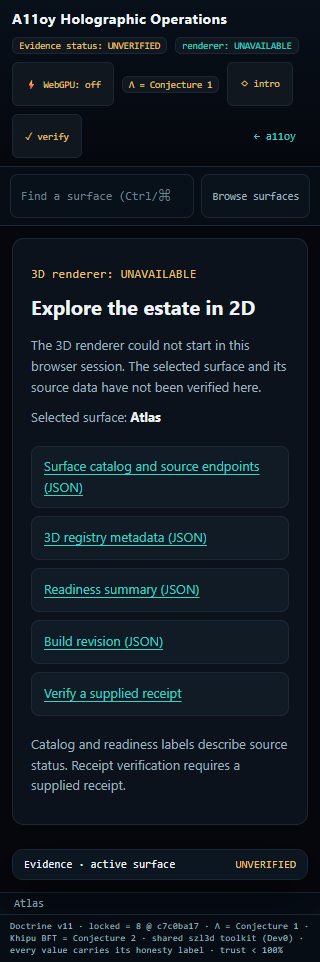
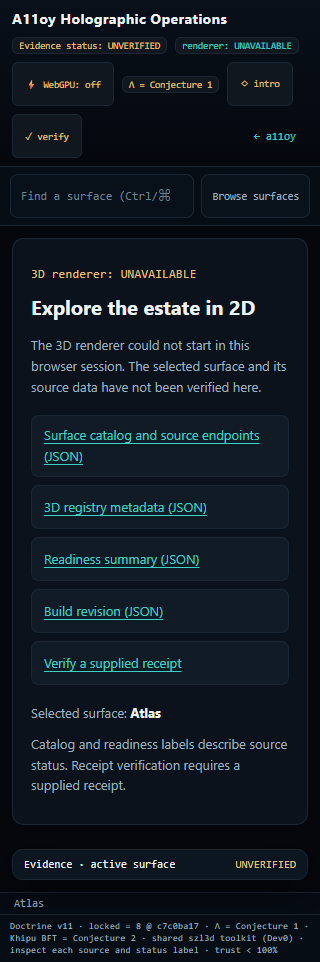
fix(frontend): clarify holographic fallback status and focus

diff --git a/static/3d/holographic.html b/static/3d/holographic.html
@@ -260,7 +260,6 @@ footer{padding:6px 14px;border-top:1px solid var(--line);flex:0 0 auto;
     <p class="fallback-status" role="status">3D renderer: UNAVAILABLE</p>
     <h2 id="fallback-title">Explore the estate in 2D</h2>
     <p>The 3D renderer could not start in this browser session. The selected surface and its source data have not been verified here.</p>
-    <p>Selected surface: <strong id="fallback-surface">Loading surface</strong></p>
     <nav class="fallback-links" aria-label="2D source and receipt links">
      <a href="/api/a11oy/v1/frontier-index/catalog">Surface catalog and source endpoints (JSON)</a>
      <a href="/api/a11oy/v1/holographic/info">3D registry metadata (JSON)</a>
@@ -268,6 +267,7 @@ footer{padding:6px 14px;border-top:1px solid var(--line);flex:0 0 auto;
      <a href="/api/build-info">Build revision (JSON)</a>
      <a href="/verify">Verify a supplied receipt</a>
     </nav>
+    <p>Selected surface: <strong id="fallback-surface">Loading surface</strong></p>
     <p>Catalog and readiness labels describe source status. Receipt verification requires a supplied receipt.</p>
    </div>
   </section>
@@ -275,9 +275,9 @@ footer{padding:6px 14px;border-top:1px solid var(--line);flex:0 0 auto;
   <div id="intro" role="dialog" aria-modal="true" tabindex="-1" aria-label="a11oy holographic estate — landing overview" hidden>
   <div class="intro-eyebrow">SZL Holdings · Doctrine v11 · Λ = Conjecture 1</div>
   <h2>The governed agentic substrate, rendered as a holographic estate</h2>
-  <p class="intro-sub">Every value each surface shows traces to a real same-origin a11oy endpoint and
-   carries its own honesty label (MEASURED / MODELED / SAMPLE / STRUCTURAL-ONLY). Nothing here is
-   invented. Start with the Brain, walk the frontier estate, or verify a signed receipt yourself.</p>
+  <p class="intro-sub">Surface entries carry their own source and status labels; inspect the
+    <a href="/api/a11oy/v1/frontier-index/catalog">frontier catalog</a> and linked sources for each claim.
+    Start with the Brain, walk the frontier estate, or check a supplied receipt in the public verifier.</p>
   <div class="cards">
    <div class="card" id="card-brain">
     <span class="lbl" data-state="degraded" id="brain-lbl">NO-LIVE-DATA</span>
@@ -288,9 +288,9 @@ footer{padding:6px 14px;border-top:1px solid var(--line);flex:0 0 auto;
     <button class="go" data-go="brain">Open the Brain →</button>
    </div>
    <div class="card" id="card-estate">
-    <span class="lbl" data-state="degraded" id="estate-lbl">NO-LIVE-DATA</span>
+    <span class="lbl" data-state="degraded" id="estate-lbl">UNVERIFIED</span>
     <h3>Frontier estate</h3>
-    <div class="stat" id="estate-stat">—<small>3D surfaces, each wired to a live backend</small></div>
+    <div class="stat" id="estate-stat">—<small>Surface registry and backend health UNVERIFIED</small></div>
     <p>Attention, reasoning, governance, proof, energy, defense and more — grouped behind the
      category dropdowns above. locked-proven formulas = 8 (never inflated).</p>
     <button class="go" data-go="frontierindex">Explore the estate →</button>
@@ -326,7 +326,7 @@ footer{padding:6px 14px;border-top:1px solid var(--line);flex:0 0 auto;
 </aside>
 <div id="surface-caption" title=""></div>
 <footer>Doctrine v11 · locked = 8 @ c7c0ba17 · Λ = Conjecture 1 · Khipu BFT = Conjecture 2 ·
- shared szl3d toolkit (Dev0) · every value carries its honesty label · trust &lt; 100%</footer>
+ shared szl3d toolkit (Dev0) · inspect each source and status label · trust &lt; 100%</footer>
 
 <script type="module">
 import szl3d from "/static/3d/szl3d/szl3d_boot.js";
@@ -511,12 +511,15 @@ async function ensureStage() {
     } catch (e) {
       try { if (stage && stage.dispose) stage.dispose(); } catch (_) {}
       stage = null;
+      try { stageEl.querySelectorAll("canvas").forEach((canvas) => canvas.remove()); } catch (_) {}
       rendererUnavailable = true;
       document.body.dataset.rendererUnavailable = "true";
       fallbackEl.style.display = "flex";
       document.getElementById("backend").textContent = "renderer: UNAVAILABLE";
       // A first-visit intro can cover the fallback; close it when the renderer fails.
-      if (window.__SZL3D_SHELL__?.closeIntro) window.__SZL3D_SHELL__.closeIntro();
+      if (!document.getElementById("intro").hidden && window.__SZL3D_SHELL__?.closeIntro) {
+        window.__SZL3D_SHELL__.closeIntro();
+      }
       fallbackEl.focus({ preventScroll: true });
       console.error("[holographic] stage boot failed:", e);
       throw e;
@@ -541,6 +544,7 @@ function _syncGpuToggle() {
 // compute path on capable browsers without editing the URL.
 async function rebootStage() {
   if (stageBootPromise) { try { await stageBootPromise; } catch (_) {} }
+  const fallbackHadFocus = document.activeElement === fallbackEl || fallbackEl.contains(document.activeElement);
   const active = selectedSurfaceId || (SURFACES[0] && SURFACES[0].id);
   try { if (current && current.instance && current.instance.unmount) current.instance.unmount(); } catch (_) {}
   current = null;
@@ -553,6 +557,7 @@ async function rebootStage() {
   rendererUnavailable = false;
   delete document.body.dataset.rendererUnavailable;
   fallbackEl.style.display = "none";
+  if (fallbackHadFocus) document.getElementById("gpu-toggle").focus({ preventScroll: true });
   await selectSurface(active, "none");
 }
 
@@ -861,12 +866,18 @@ function _makeTab(s, feat) {
   }
   b.addEventListener("click", (ev) => {
     ev.preventDefault();
+    const returnFocus = document.activeElement === b;
+    const fromSearch = searchPanel && searchPanel.contains(b);
     selectSurface(s.id, "push");
     _clearSearch();
     _setBrowser(false);
     openCategory(catOf(s), false);
     // On the mobile horizontal strips, keep the tapped tab in view.
     try { b.scrollIntoView({ behavior: window.matchMedia && window.matchMedia("(prefers-reduced-motion: reduce)").matches ? "auto" : "smooth", inline: "center", block: "nearest" }); } catch (_) {}
+    if (returnFocus) {
+      if (rendererUnavailable) fallbackEl.focus({ preventScroll: true });
+      else (fromSearch ? searchInput : navMode)?.focus();
+    }
   });
   b.addEventListener("keydown", (ev) => {
     if (!["ArrowLeft", "ArrowRight", "ArrowUp", "ArrowDown", "Home", "End"].includes(ev.key)) return;
@@ -1009,10 +1020,19 @@ function _highlight(id) {
   if (gpuBtn) {
     gpuBtn.addEventListener("click", async () => {
       wantWebGPU = !wantWebGPU;
+      const restoreToggleFocus = document.activeElement === gpuBtn ||
+        document.activeElement === fallbackEl || fallbackEl.contains(document.activeElement);
       gpuBtn.disabled = true;
       const prev = gpuBtn.textContent; gpuBtn.textContent = "\u26a1 switching\u2026";
       try { await rebootStage(); } catch (_) { document.getElementById("backend").textContent = "renderer: UNAVAILABLE"; }
-      finally { gpuBtn.disabled = false; _syncGpuToggle(); }
+      finally {
+        gpuBtn.disabled = false;
+        _syncGpuToggle();
+        // Disabling a focused button drops focus to <body> while the renderer boots.
+        if (!rendererUnavailable && restoreToggleFocus && document.activeElement === document.body) {
+          gpuBtn.focus({ preventScroll: true });
+        }
+      }
     });
     _syncGpuToggle();
   }
@@ -1040,9 +1060,9 @@ window.addEventListener("hashchange", () => {
 
 // ---- Landing / intro overlay (Dev4, Wave R) --------------------------------
 // A coherent honest entry: the estate boots live underneath while this panel shows the
-// Brain headline + frontier surface count + the public verifier. Every stat is fetched
-// same-origin (0 CDN) and degrades to an honest NO-LIVE-DATA chip if the endpoint 404s or
-// is unreachable — never a fabricated number. Auto-shows once per tab session; re-openable
+// Brain headline + frontier surface count + the public verifier. Card data is requested
+// same-origin (0 CDN), and missing data is labelled unverified if an endpoint is unreachable.
+// Auto-shows once per tab session; re-openable
 // via the header ◇ intro badge or ?intro=1.
 {
   const introEl = document.getElementById("intro");
@@ -1081,21 +1101,23 @@ window.addEventListener("hashchange", () => {
     }
   }
 
-  // Frontier estate — count of live 3D surfaces (prefer the honest server info, fall back to
-  // the in-page manifest which is the same source of truth as the shell).
+  // The registry lists surface metadata; fetching it does not prove backend health.
   async function loadEstate() {
     try {
       const r = await fetch("/api/a11oy/v1/holographic/info", { headers: { accept: "application/json" } });
       if (!r.ok) throw new Error("HTTP " + r.status);
       const j = await r.json();
-      const n = Array.isArray(j.surfaces) ? j.surfaces.length : SURFACES.length;
-      setStat("estate-stat", String(n), "3D surfaces, each wired to a live backend");
-      setLabel("estate-lbl", "reachable", "REACHABLE");
+      if (!Array.isArray(j?.surfaces) || !j.surfaces.every((surface) =>
+        surface && typeof surface.id === "string" && surface.id &&
+        typeof surface.title === "string" && surface.title)) {
+        throw new Error("invalid surface registry");
+      }
+      setStat("estate-stat", String(j.surfaces.length), "3D surfaces listed by registry; backend health UNVERIFIED");
+      setLabel("estate-lbl", "metadata", "REGISTRY · UNVERIFIED");
     } catch (e) {
-      // The shell manifest is authoritative and always present — honest count, labelled as
-      // in-page (not a fresh server read).
-      setStat("estate-stat", String(SURFACES.length), "3D surfaces (from in-page manifest)");
-      setLabel("estate-lbl", "degraded", "MANIFEST");
+      // A local manifest count remains available, but no registry or backend check passed.
+      setStat("estate-stat", String(SURFACES.length), "3D surfaces in this page manifest; registry and backend health UNVERIFIED");
+      setLabel("estate-lbl", "degraded", "MANIFEST · UNVERIFIED");
     }
   }
 

diff --git a/tests/test_receipt_2d_fallback_contract.py b/tests/test_receipt_2d_fallback_contract.py
@@ -1,0 +1,68 @@
+"""Public receipt navigation and renderer-free estate source contracts."""
+
+from __future__ import annotations
+
+import re
+import unittest
+from pathlib import Path
+
+
+ROOT = Path(__file__).resolve().parents[1]
+LANDING = ROOT / "a11oy_landing.html"
+HOLOGRAPHIC = ROOT / "static" / "3d" / "holographic.html"
+
+
+class ReceiptAndFallbackContract(unittest.TestCase):
+    def test_hero_receipt_action_uses_verifier_and_keeps_registry_distinct(self):
+        html = LANDING.read_text(encoding="utf-8")
+        hero_actions = html.split('<div class="cta-row">', 1)[1].split("</div>", 1)[0]
+        match = re.search(r'<a\b([^>]+)>Verify a receipt</a>', hero_actions)
+        self.assertIsNotNone(match)
+        attributes = dict(re.findall(r'([\w-]+)="([^"]*)"', match.group(1)))
+        self.assertEqual(attributes.get("href"), "/verify")
+        self.assertNotIn("target", attributes)
+        self.assertNotIn("rel", attributes)
+        self.assertIn('href="https://a11oy.net"', html.split('<div class="origin-banner"', 1)[1].split("</div>", 1)[0])
+        self.assertNotIn("offline, in your own browser", html.split('<p class="lede">', 1)[1].split("</p>", 1)[0])
+
+    def test_renderer_failure_has_accessible_real_destinations(self):
+        html = HOLOGRAPHIC.read_text(encoding="utf-8")
+        panel = html.split('<section id="fallback"', 1)[1].split("</section>", 1)[0]
+        self.assertIn('aria-labelledby="fallback-title"', panel)
+        self.assertIn('tabindex="-1"', panel)
+        self.assertIn('role="status"', panel)
+        self.assertIn('id="fallback-surface"', panel)
+        self.assertLess(panel.index('class="fallback-links"'), panel.index('id="fallback-surface"'))
+        self.assertEqual(
+            re.findall(r'<a href="([^"]+)"', panel),
+            [
+                "/api/a11oy/v1/frontier-index/catalog",
+                "/api/a11oy/v1/holographic/info",
+                "/api/a11oy/v1/readiness/tab-matrix?view=summary",
+                "/api/build-info",
+                "/verify",
+            ],
+        )
+        self.assertNotIn("All underlying data is still available", panel)
+        self.assertIn('document.getElementById("fallback-surface").textContent = def.title', html)
+        self.assertIn('body[data-renderer-unavailable="true"]', html)
+        self.assertIn('fallbackEl.focus({ preventScroll: true })', html)
+
+    def test_registry_listing_never_claims_backend_reachability(self):
+        html = HOLOGRAPHIC.read_text(encoding="utf-8")
+        card = html.split('id="card-estate"', 1)[1].split('id="card-verify"', 1)[0]
+        loader = html.split("async function loadEstate()", 1)[1].split("let introReturnFocus", 1)[0]
+        self.assertNotIn("each wired to a live backend", card + loader)
+        self.assertNotIn("Every value each surface shows", html)
+        self.assertNotIn("every value carries its honesty label", html)
+        self.assertIn('<a href="/api/a11oy/v1/frontier-index/catalog">frontier catalog</a>', html)
+        self.assertIn("backend health UNVERIFIED", card + loader)
+        self.assertIn("Array.isArray(j?.surfaces)", loader)
+        self.assertIn("j.surfaces.every", loader)
+        self.assertIn('"REGISTRY · UNVERIFIED"', loader)
+        self.assertIn('"MANIFEST · UNVERIFIED"', loader)
+        self.assertNotIn('setLabel("estate-lbl", "reachable"', loader)
+
+
+if __name__ == "__main__":
+    unittest.main()
